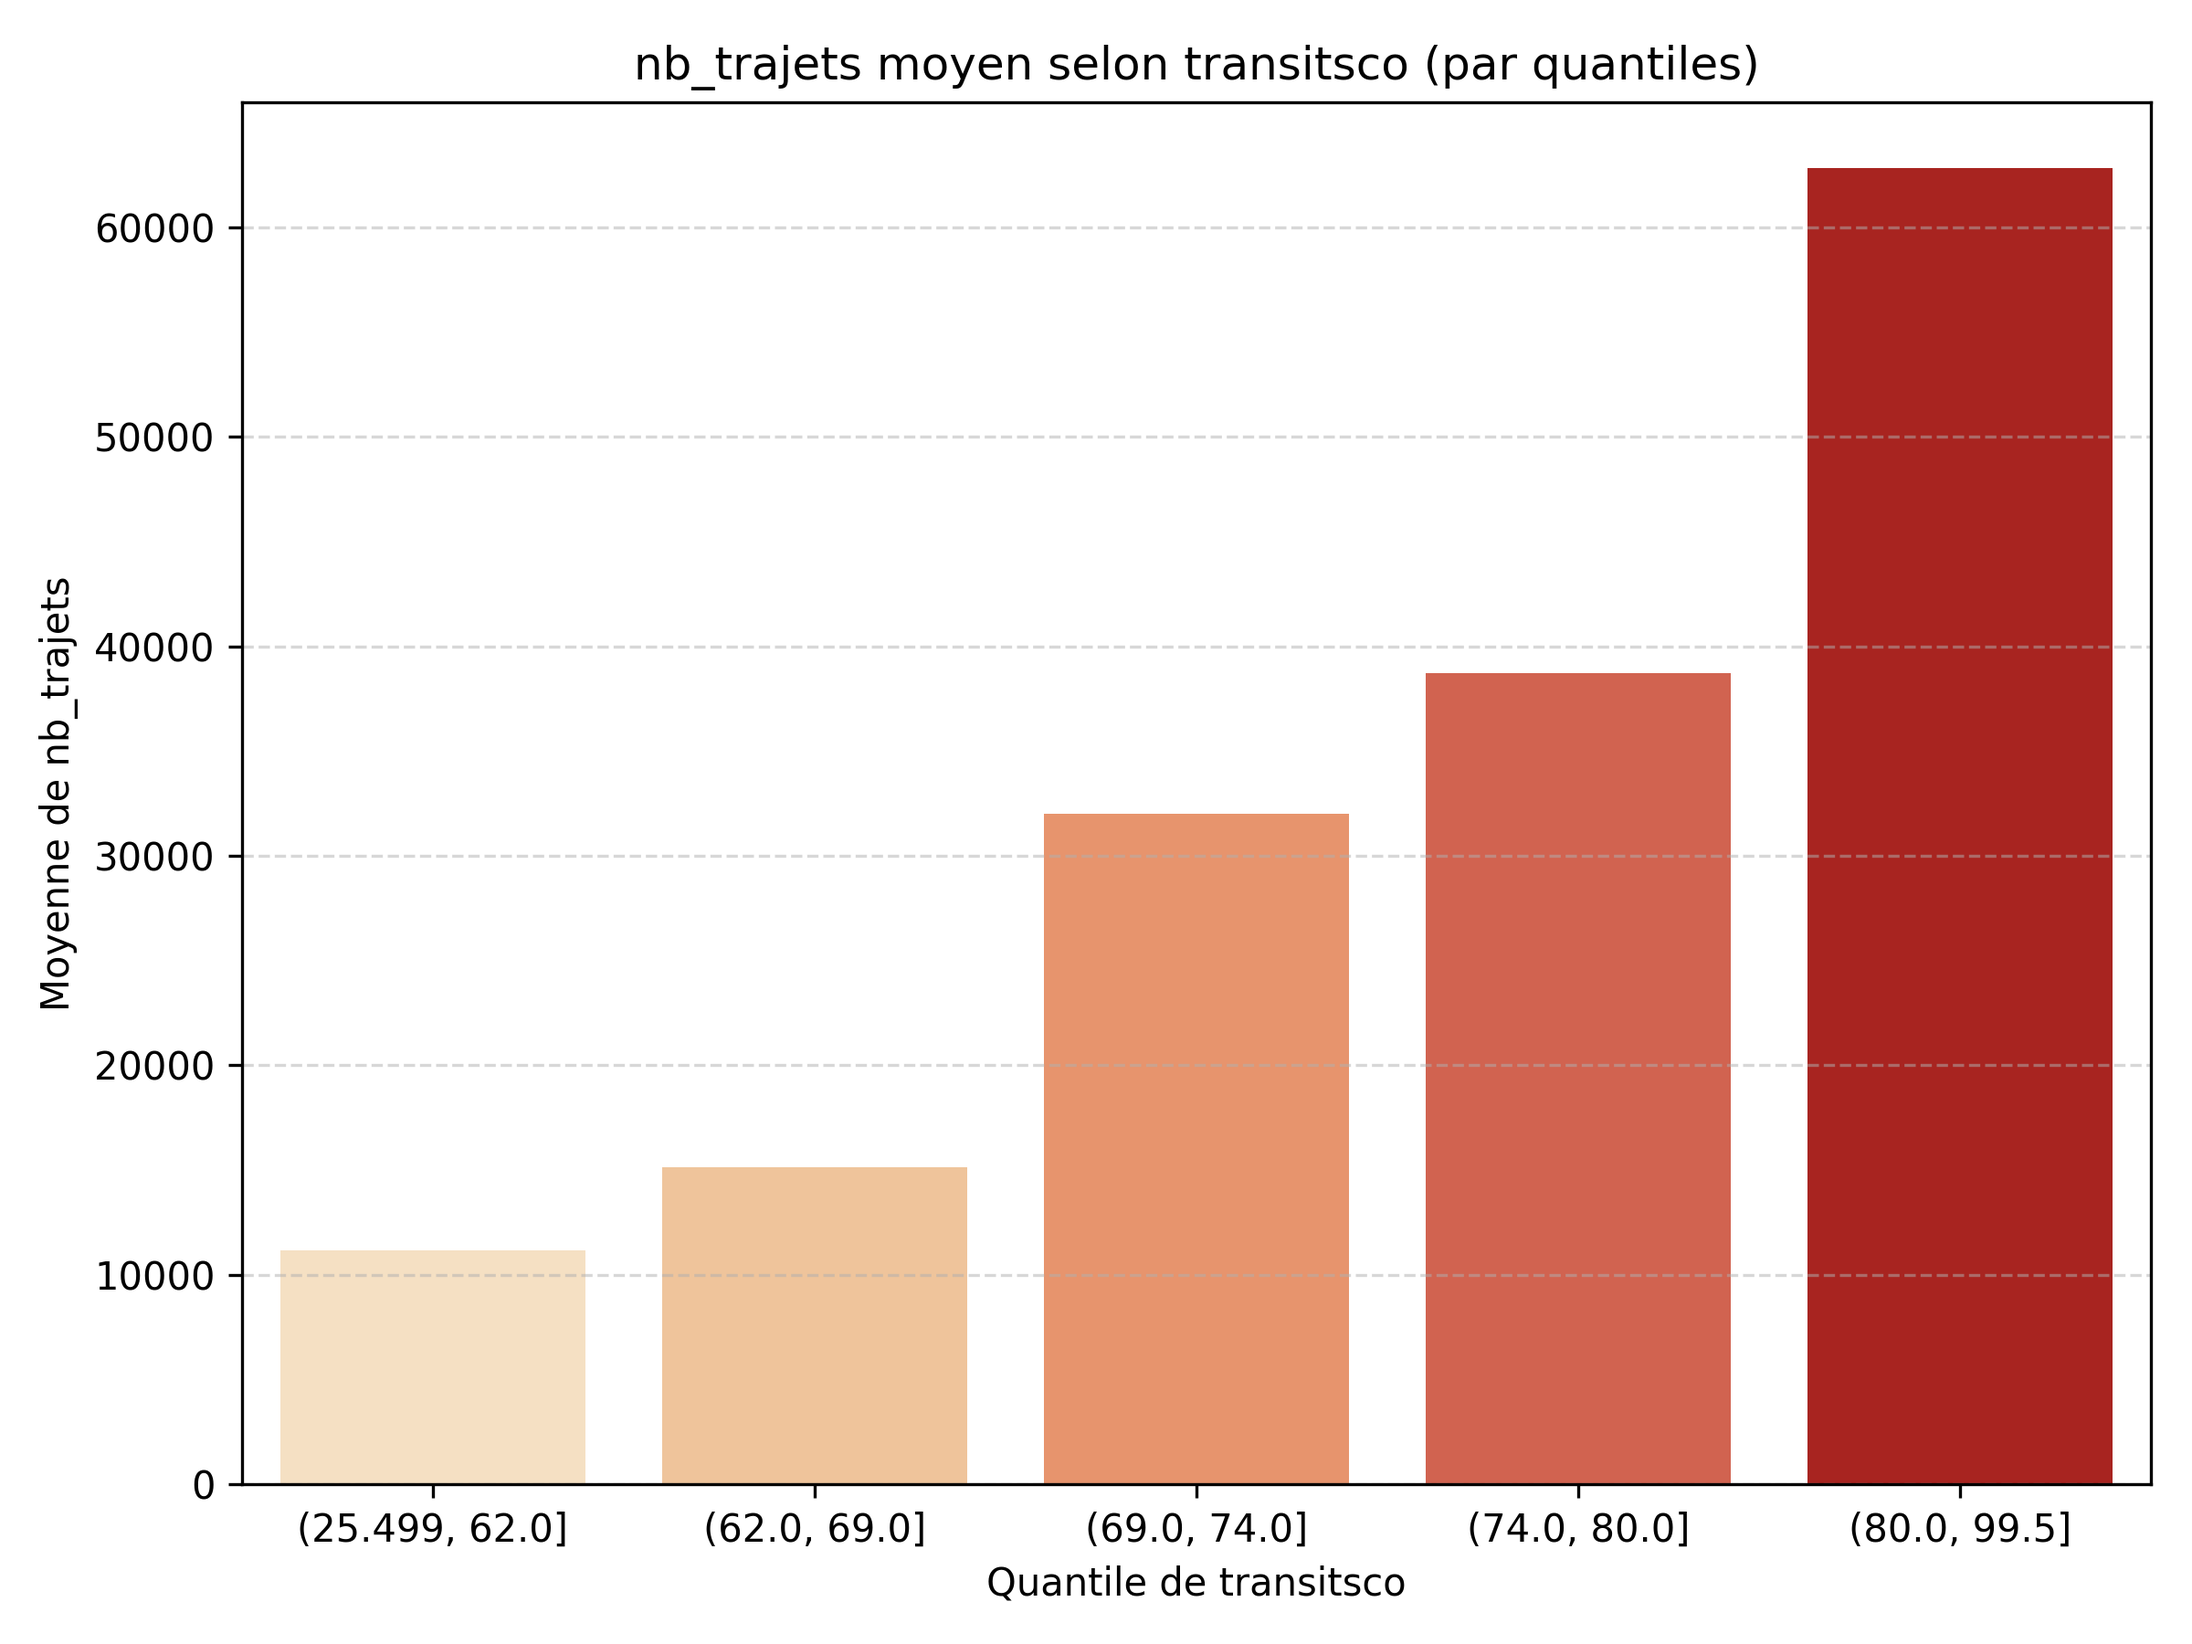
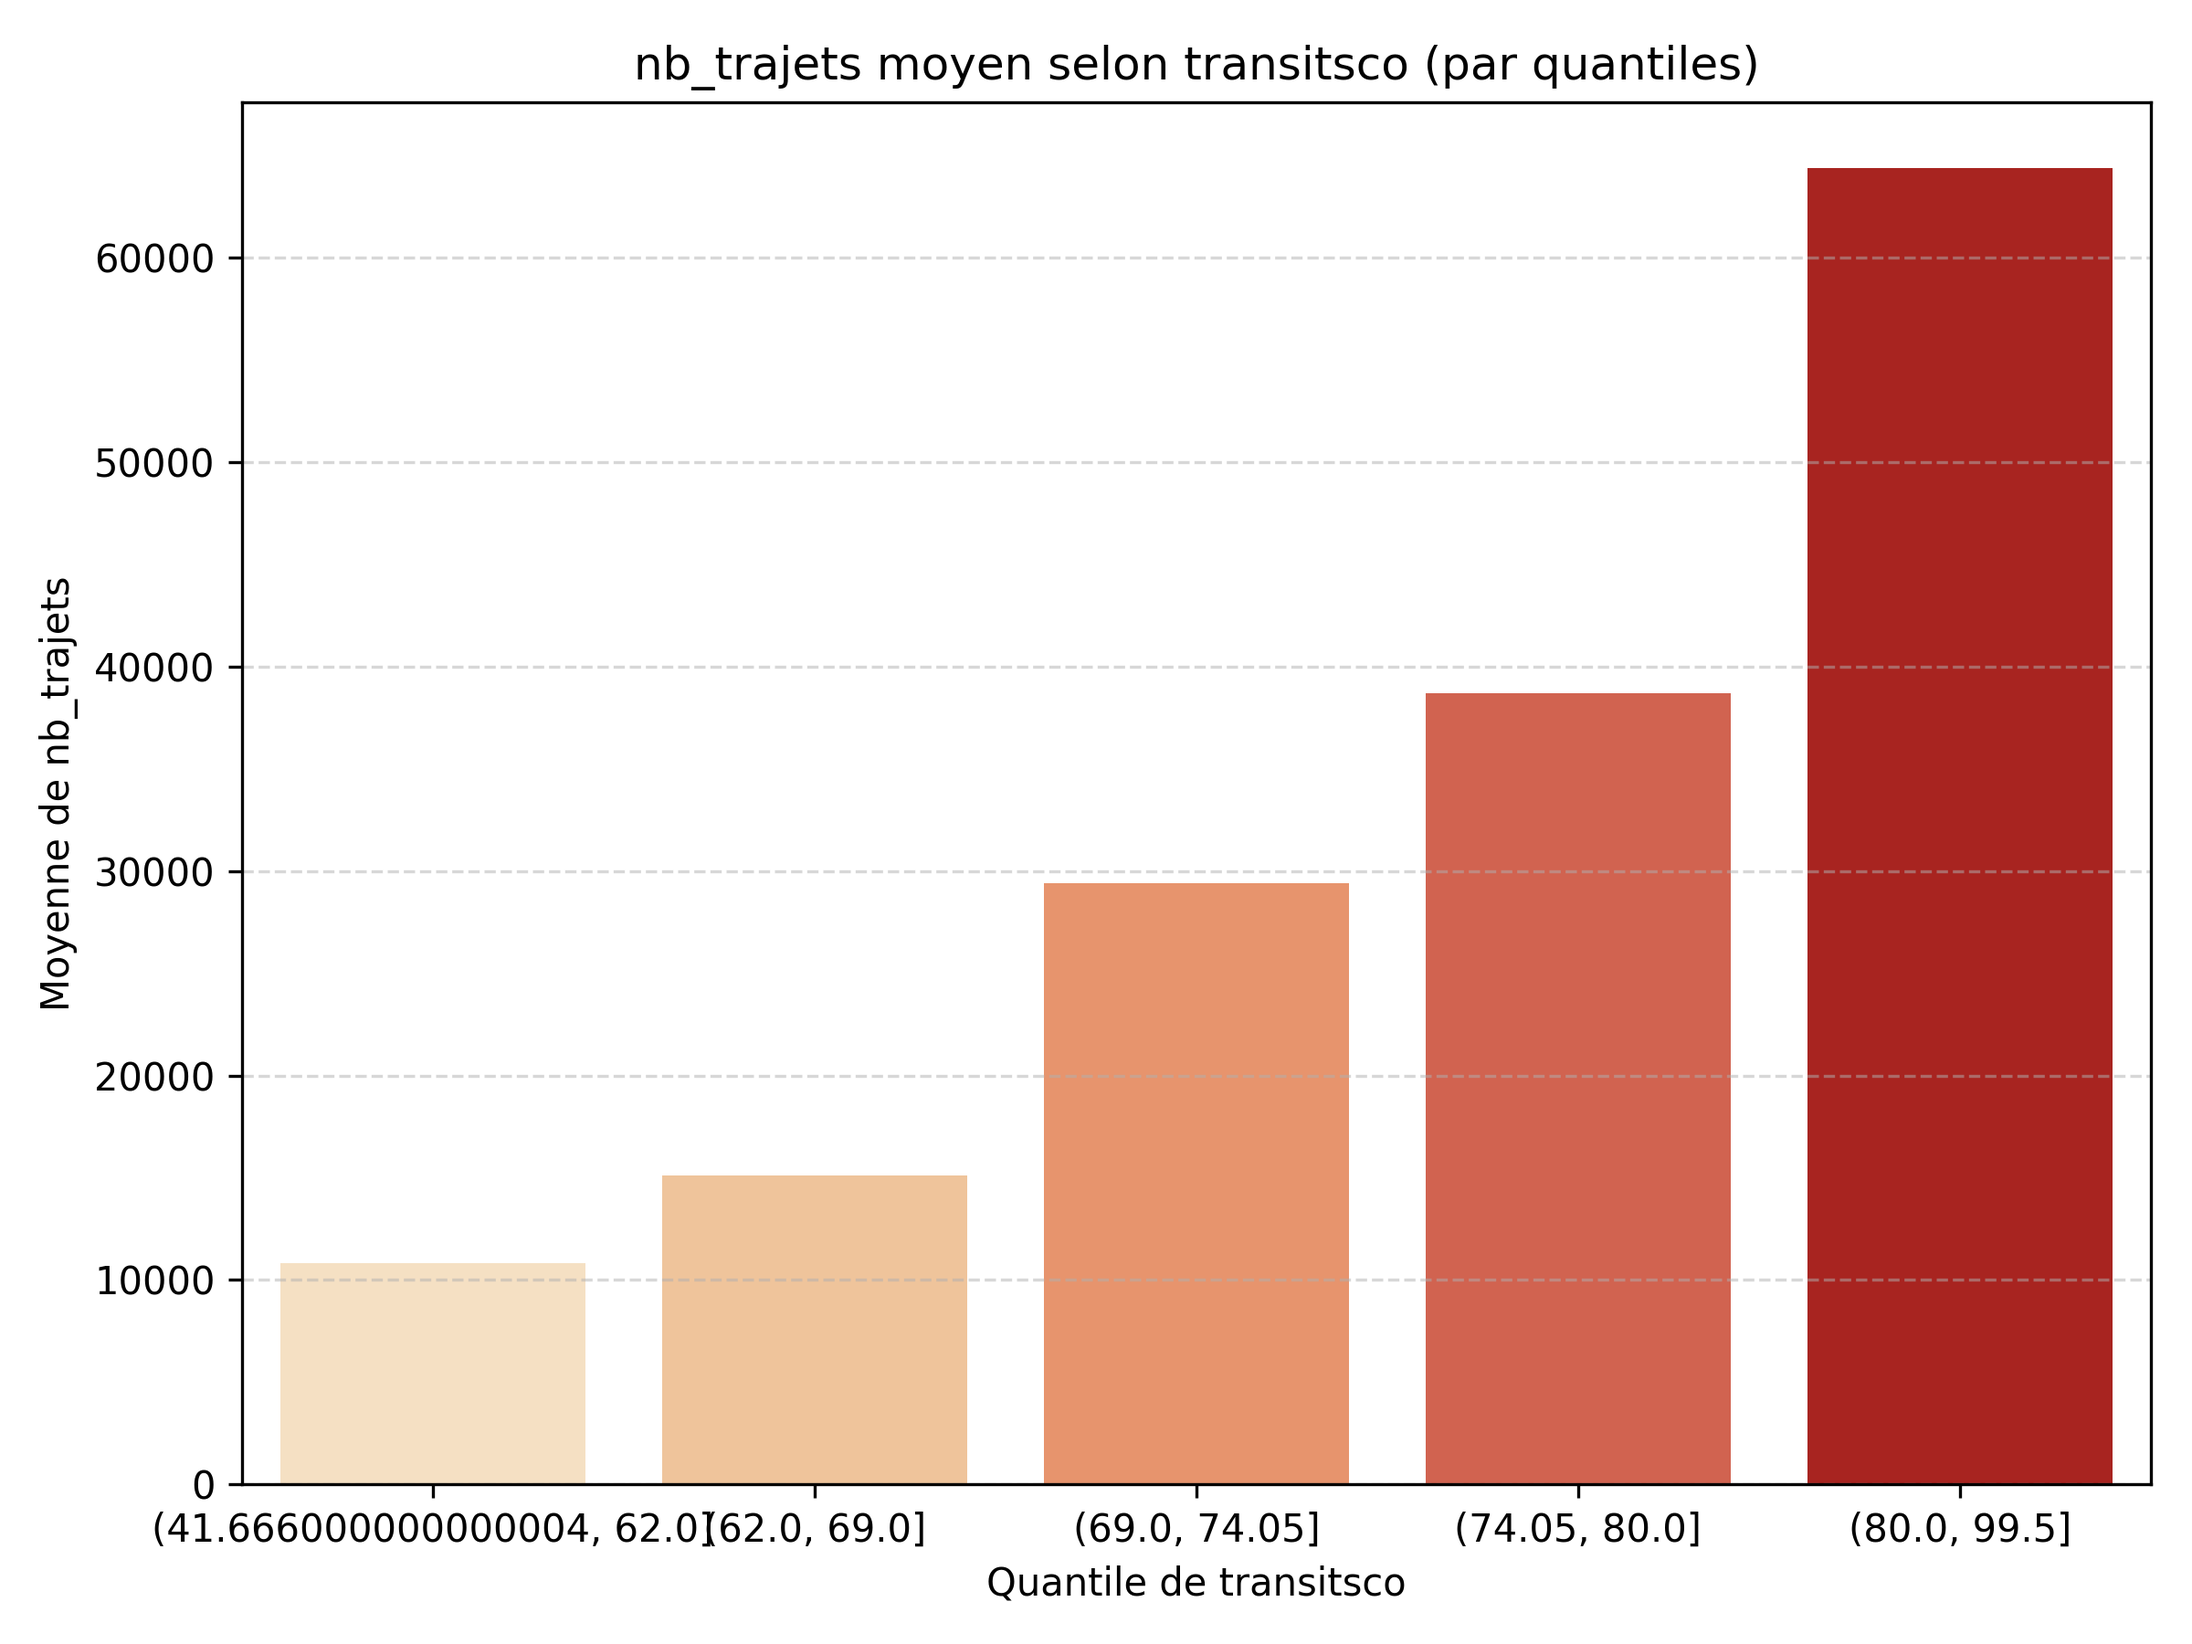
replace ws ts bs -1/0 par NAN

diff --git a/scripts/data/walkscore_processing.py b/scripts/data/walkscore_processing.py
@@ -8,6 +8,7 @@ import unidecode
 import random
 import geopandas as gpd
 from shapely.geometry import Point
+import numpy as np
 
 def safe_request_get(url, headers=None, retries=3, delay=2):
     for attempt in range(1, retries + 1):
@@ -120,6 +121,9 @@ def agg_walkscore_par_hexagone(
     gdf_hex = gpd.read_file(path_hexagones).to_crs(epsg=epsg)
 
     points_df = pd.read_csv(path_walkscore)
+    cols = ['walkscore', 'transitscore', 'bikescore']
+    points_df[cols] = points_df[cols].replace({0: np.nan, -1: np.nan})
+
     geometry = [Point(xy) for xy in zip(points_df["lon"], points_df["lat"])]
     points_gdf = gpd.GeoDataFrame(points_df, geometry=geometry, crs="EPSG:4326").to_crs(epsg=epsg)
 
